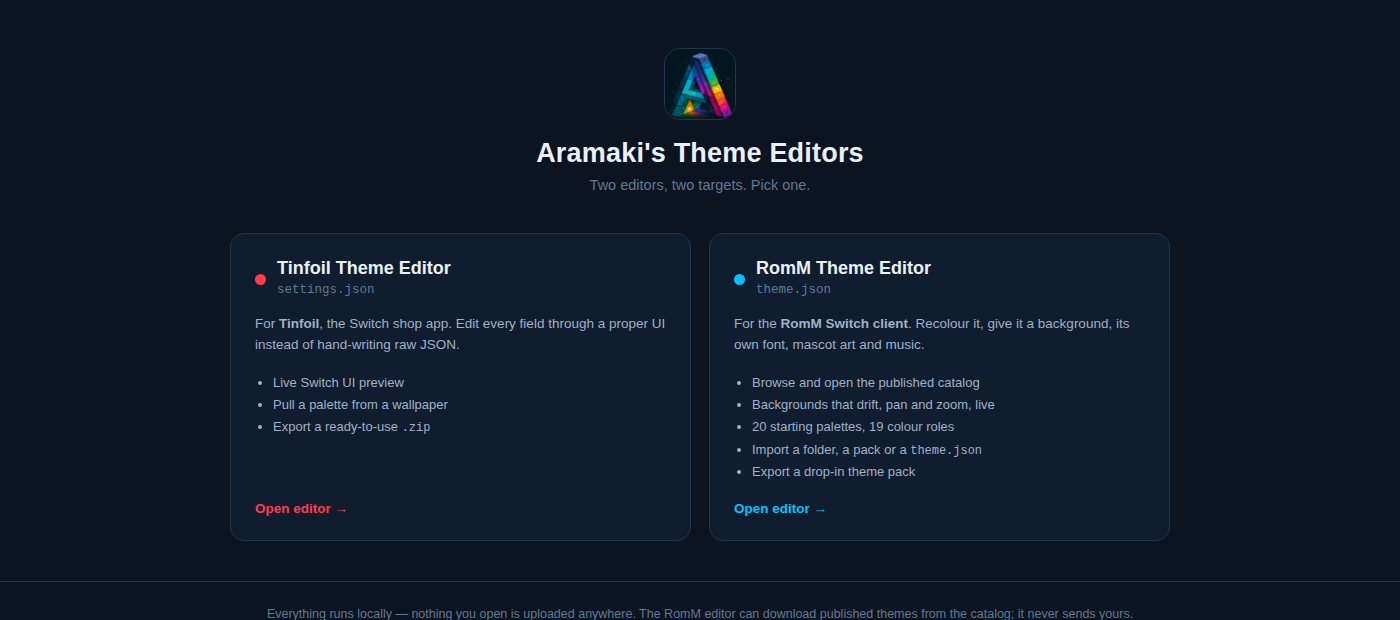
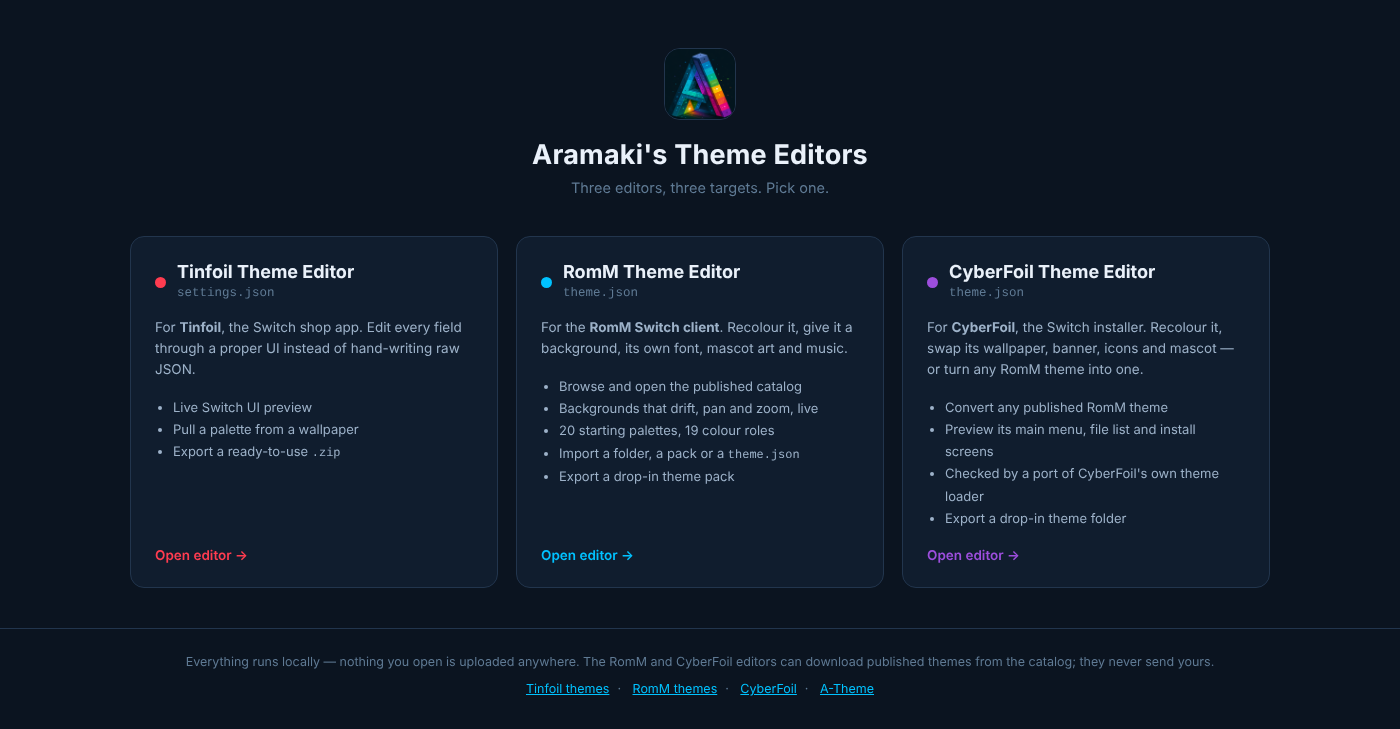
CyberFoil editor: hide or replace the mascots, preview Remove anime
CyberFoil's anime mascots showed through the tiles of every converted
theme. Either can now take the theme's own art or be hidden: a theme
cannot delete an image, so hiding ships a 1x1 transparent PNG CyberFoil
accepts. Conversions hide them by default.

CyberFoil's "Remove anime" setting also draws the banner at x = -113.
The preview has a toggle for it, and generated banners right-align the
name into the part both layouts show. The checks name the two SD-card
overrides that beat any theme's mascot.

README and changelog gain screenshots of the editor and of four RomM
themes converted, and the launcher screenshot shows all three editors.

Claude-Session: https://claude.ai/code/session_01HYDdgB6DK7nTUkULpwptoW

diff --git a/cyberfoil-theme-editor.html b/cyberfoil-theme-editor.html
@@ -328,6 +328,9 @@
       <div class="panel">
         <h2>Icons &amp; mascot <span class="note" id="iconCount"></span></h2>
         <div class="body">
+          <label class="chk" style="margin-bottom:6px;"><input type="checkbox" id="hideMascots"> Hide CyberFoil's mascots where this theme has none of its own</label>
+          <p class="hint" style="margin:0 0 12px;">Or pick your own art in the Mascot slots below. Both are drawn at their own
+            size &mdash; the main menu's at 410,190, behind the tiles.</p>
           <div id="slotList"></div>
           <p class="hint" style="margin:12px 0 0;">Each one replaces the built-in image at that path. Transparent PNGs,
             square for the icons. Change both checkbox images or neither &mdash; a half-changed pair reads as two different controls.</p>
@@ -341,6 +344,7 @@
         <h2>Preview
           <span class="tabs">
             <label class="chk" title="CyberFoil's OLED mode setting changes several built-in colours"><input type="checkbox" id="oled"> OLED mode</label>
+            <label class="chk" title="CyberFoil's Remove anime setting hides both mascots and slides the banner 113px left"><input type="checkbox" id="noAnime"> Remove anime</label>
             <button data-screen="main" class="on">Main</button>
             <button data-screen="browser">SD card</button>
             <button data-screen="queue">Queue</button>
@@ -705,6 +709,11 @@ const SLOTS = [
   {g:'Mascot', k:'awoos/5bbdbcf9a5625cd307c9e9bc360d78bd.png', l:'Main menu mascot', size:'own size at 410,190'},
   {g:'Mascot', k:'awoos/7d8a05cddfef6da4901b20d2698d5a71.png', l:'Install mascot',   size:'own size at 510,166'}
 ];
+const MASCOT_SLOTS = SLOTS.filter(s => s.g === 'Mascot').map(s => s.k);
+/* A theme cannot remove an image, only replace it - and an empty path is
+   refused, so the built-in comes back. A 1x1 clear PNG is a replacement
+   CyberFoil accepts that draws nothing. */
[1 lines of base64/hex data omitted]
 const SLOT_FILE = k => k.startsWith('awoos/5bbd') ? 'mascot-main'
                      : k.startsWith('awoos/7d8a') ? 'mascot-install'
                      : 'icons/' + k.slice(6).replace(/\.png$/, '');
@@ -824,7 +833,9 @@ const state = {
   banner: Object.assign(blankAsset(), {mode:'builtin'}),
   bannerFont: {name:'', dataUrl:''},
   images: {},                    /* slot key -> asset */
+  hideMascots: false,            /* swap CyberFoil's mascots for a clear pixel */
   oled:   false,
+  noAnime: false,                /* CyberFoil's "Remove anime" setting, for the preview */
   screen: 'main',
   report: null                   /* what the last RomM conversion could not carry */
 };
@@ -900,6 +911,7 @@ function buildPack(){
   const images = {};
   const put = (key, path, a) => {
     images[key] = path;
+    if (files.some(f => f.path === path)) return;   /* one file, several keys */
     files.push({path, dataUrl: a.dataUrl, size: a.size, image: a.decoded ? {w: a.w, h: a.h} : null, type: a.type});
   };
 
@@ -916,6 +928,8 @@ function buildPack(){
   for (const s of SLOTS){
     const a = state.images[s.k];
     if (a && a.dataUrl) put(s.k, SLOT_FILE(s.k) + '.' + extFor(a.type), a);
+    else if (state.hideMascots && MASCOT_SLOTS.includes(s.k))
+      put(s.k, 'mascot-none.png', {dataUrl: CLEAR_PIXEL, size: dataUrlSize(CLEAR_PIXEL), decoded: true, w: 1, h: 1, type: 'image/png'});
   }
   if (Object.keys(images).length) doc.images = images;
   return {doc, files, text: JSON.stringify(doc, null, 2) + '\n'};
@@ -993,18 +1007,22 @@ async function refreshBanner(){
   const ctx = cv.getContext('2d');
   const title = state.meta.name || folderName();
   /* The banner is drawn at y = -8 under a 74px header, so rows 8..82 are what
-     shows. The name sits in that band, left-aligned where CyberFoil's own
-     wordmark does, with an accent tick like the queue's. */
+     shows. CyberFoil's "Remove anime" setting draws it at x = -113 instead,
+     so only x >= 113 is safe in both modes: the name is right-aligned into
+     that part, with an accent tick like the queue's in front of it. */
+  const RIGHT = 466, SAFE = 113 + 14;
   let size = 46;
   ctx.textBaseline = 'middle';
   for (; size > 18; size -= 2){
     ctx.font = `700 ${size}px ${family}`;
-    if (ctx.measureText(title).width <= 480 - 40) break;
+    if (ctx.measureText(title).width <= RIGHT - SAFE - 16) break;
   }
+  const tw = Math.min(ctx.measureText(title).width, RIGHT - SAFE - 16);
+  const x = RIGHT - tw;
   ctx.fillStyle = cssRgba(cfPalette(st, '#FF4D4DFF'));
-  ctx.beginPath(); ctx.roundRect(14, 27, 5, 36, 2); ctx.fill();
+  ctx.beginPath(); ctx.roundRect(x - 16, 27, 5, 36, 2); ctx.fill();
   ctx.fillStyle = cssRgba(cfPalette(st, '#FFFFFFFF'));
-  ctx.fillText(title, 30, 46);
+  ctx.fillText(title, x, 46, RIGHT - SAFE - 16);
   derived.banner = await assetFromDataUrl('banner', cv.toDataURL('image/png'));
   derived.bannerKey = key;
   render();
@@ -1111,14 +1129,17 @@ function drawPreview(){
   }
 
   const scr = state.screen;
-  if (scr === 'main') image('awoos/5bbdbcf9a5625cd307c9e9bc360d78bd.png', 410, 190);
+  /* mainPage.cpp: awooImage->SetVisible(!gayMode) - the "Remove anime" setting. */
+  if (scr === 'main' && !state.noAnime) image('awoos/5bbdbcf9a5625cd307c9e9bc360d78bd.png', 410, 190);
 
   /* ---- the frame every page builds ---- */
   rect(0, 0, 1280, 74, C('header', P(oled ? '#000000FF' : '#170909FF')));
   if (scr !== 'main') rect(0, 75, 1280, 60, C('panel', P(oled ? '#000000FF' : '#17090980')));
   rect(0, 660, 1280, 60, C('footer', P(oled ? '#000000FF' : '#17090980')));
-  image('logo.png', 0, -8, 480, 93, 'CyberFoil banner');
-  text('v' + CF_APP_VERSION, 480, 29, 22, P('#FFFFFFFF'));
+  /* With "Remove anime" on, every page builds the banner at -113 and the
+     version at 367 instead - the left 113px of the banner go off-screen. */
+  image('logo.png', state.noAnime ? -113 : 0, -8, 480, 93, 'CyberFoil banner');
+  text('v' + CF_APP_VERSION, state.noAnime ? 367 : 480, 29, 22, P('#FFFFFFFF'));
 
   /* Status cluster, laid out as MainApplication.cpp's applyStatus does. */
   const timeW = textW('12:34', 22), right = 1270, timeX = right - timeW;
@@ -1253,7 +1274,7 @@ function drawInstall(P, rect, text, image){
   const w = 850, h = 40, pcw = Math.trunc(0.42 * w);
   rect(10, 600, w, h, P('#222222FF'), Math.trunc(h / 3));
   rect(10, 600, Math.max(h, pcw), h, P('#FF4D4DFF'), Math.trunc(h / 3));
-  image('awoos/7d8a05cddfef6da4901b20d2698d5a71.png', 510, 166);
+  if (!state.noAnime) image('awoos/7d8a05cddfef6da4901b20d2698d5a71.png', 510, 166);
 }
 
 /* ===========================================================================
@@ -1347,6 +1368,15 @@ function renderChecks(){
   const logo = lastPack.files.find(f => f.path.startsWith('banner.'));
   if (logo && logo.image && Math.abs(logo.image.w / logo.image.h - 480 / 93) > 0.08){
     add('warn', `The banner is ${logo.image.w}×${logo.image.h}; it is stretched to 480×93.`);
+  }
+  const mascotKeys = MASCOT_SLOTS.filter(k => st.images.has(k));
+  if (mascotKeys.length){
+    add('info', 'CyberFoil looks for <code>awoo_main.png</code> and <code>awoo_inst.png</code> in <code>sdmc:/switch/CyberFoil/</code> ' +
+                'before the theme - if either exists, it wins over what this theme sets. Its <b>Remove anime</b> setting hides both.');
+  }
+  if (logo && state.banner.mode === 'image'){
+    add('info', 'With CyberFoil\'s <b>Remove anime</b> setting on, the banner is drawn 113px further left, so its left 113px are cut off. ' +
+                'Tick <b>Remove anime</b> above the preview to see it.');
   }
   const ticks = ['icons/checkbox-blank-outline.png', 'icons/check-box-outline.png'].map(k => st.images.has(k));
   if (ticks[0] !== ticks[1]) add('warn', 'Only one of the two checkbox images is replaced. CyberFoil\'s README asks for both.');
@@ -1524,6 +1554,8 @@ function pushStateToInputs(){
   $('bgDim').value = state.bg.dim;
   $('bnMode').value = state.banner.mode;
   $('oled').checked = state.oled;
+  $('hideMascots').checked = state.hideMascots;
+  $('noAnime').checked = state.noAnime;
   document.querySelectorAll('.tabs button').forEach(x => x.classList.toggle('on', x.dataset.screen === state.screen));
 }
 
@@ -1714,6 +1746,7 @@ function resetState(){
   state.banner = Object.assign(blankAsset(), {mode:'builtin'});
   state.bannerFont = {name:'', dataUrl:''};
   state.images = {};
+  state.hideMascots = false;
   state.report = null;
 }
 
@@ -1744,6 +1777,7 @@ async function importCyberFoil(doc, fetchFile){
     const a = await assetFromDataUrl(splitPath(v).base, url);
     if (target === 'bg'){ Object.assign(state.bg, a, {mode: 'image', dim: 0}); }
     else if (target === 'banner'){ Object.assign(state.banner, a, {mode: 'image'}); }
+    else if (MASCOT_SLOTS.includes(target) && a.w === 1 && a.h === 1) state.hideMascots = true;
     else state.images[target] = a;
   }
   return {missing, ignored};
@@ -1785,6 +1819,9 @@ async function importRomm(doc, fetchFile, label){
     else { missing.push(fontName); dropped.push(`the font (${fontName})`); }
   }
   state.banner.mode = 'generate';
+  /* CyberFoil's anime mascots peek through its tiles; over a RomM theme's own
+     art they read as a mistake. The theme's own mascot, if any, still shows. */
+  state.hideMascots = true;
 
   const mascot = doc.assets && typeof doc.assets.mascot === 'string' ? doc.assets.mascot : '';
   if (mascot){
@@ -2030,7 +2067,7 @@ async function useCatalogTheme(entry, row, btn){
 const LS_KEY = 'cyberfoil-theme-editor-v1';
 function save(){
   try {
-    const slim = {meta: state.meta, colors: state.colors, oled: state.oled, screen: state.screen,
+    const slim = {meta: state.meta, colors: state.colors, oled: state.oled, screen: state.screen, hideMascots: state.hideMascots, noAnime: state.noAnime,
                   bg: {mode: state.bg.mode === 'image' ? 'builtin' : state.bg.mode, dim: state.bg.dim},
                   banner: {mode: state.banner.mode === 'image' ? 'builtin' : state.banner.mode}};
     localStorage.setItem(LS_KEY, JSON.stringify(slim));
@@ -2048,6 +2085,8 @@ function load(){
     if (s.bg && typeof s.bg.dim === 'number') state.bg.dim = s.bg.dim;
     if (s.banner && ['builtin', 'generate'].includes(s.banner.mode)) state.banner.mode = s.banner.mode;
     state.oled = s.oled === true;
+    state.hideMascots = s.hideMascots === true;
+    state.noAnime = s.noAnime === true;
     if (['main', 'browser', 'queue', 'install'].includes(s.screen)) state.screen = s.screen;
   } catch (e) {}
 }
@@ -2115,6 +2154,8 @@ function init(){
   $('bnFontClear').addEventListener('click', () => { state.bannerFont = {name: '', dataUrl: ''}; render(); });
 
   $('oled').addEventListener('change', () => { state.oled = $('oled').checked; render(); });
+  $('hideMascots').addEventListener('change', () => { state.hideMascots = $('hideMascots').checked; render(); });
+  $('noAnime').addEventListener('change', () => { state.noAnime = $('noAnime').checked; render(); });
   document.querySelectorAll('.tabs button').forEach(b => b.addEventListener('click', () => {
     state.screen = b.dataset.screen;
     pushStateToInputs();

diff --git a/CHANGELOG.md b/CHANGELOG.md
@@ -27,6 +27,16 @@ listed after the conversion. Run over all 160 themes in RomM-Themes, every one
 is listed by CyberFoil with all eleven colours and its images, and none fails a
 readability check.
 
+### Mascots, and "Remove anime"
+
+CyberFoil's two anime mascots can each take your own art or be hidden. A
+theme cannot delete a built-in image — an empty path is refused and the
+built-in comes back — so hiding one ships a 1×1 transparent PNG, which
+CyberFoil accepts and draws as nothing. Converted RomM themes hide them by
+default. The preview has a **Remove anime** toggle for CyberFoil's setting of
+that name, which also draws the banner 113px further left; generated banners
+keep the theme's name in the part both layouts show.
+
 ### Checked by CyberFoil's own loader
 
 The editor's verdicts — listed or not, under what name, which colours and
